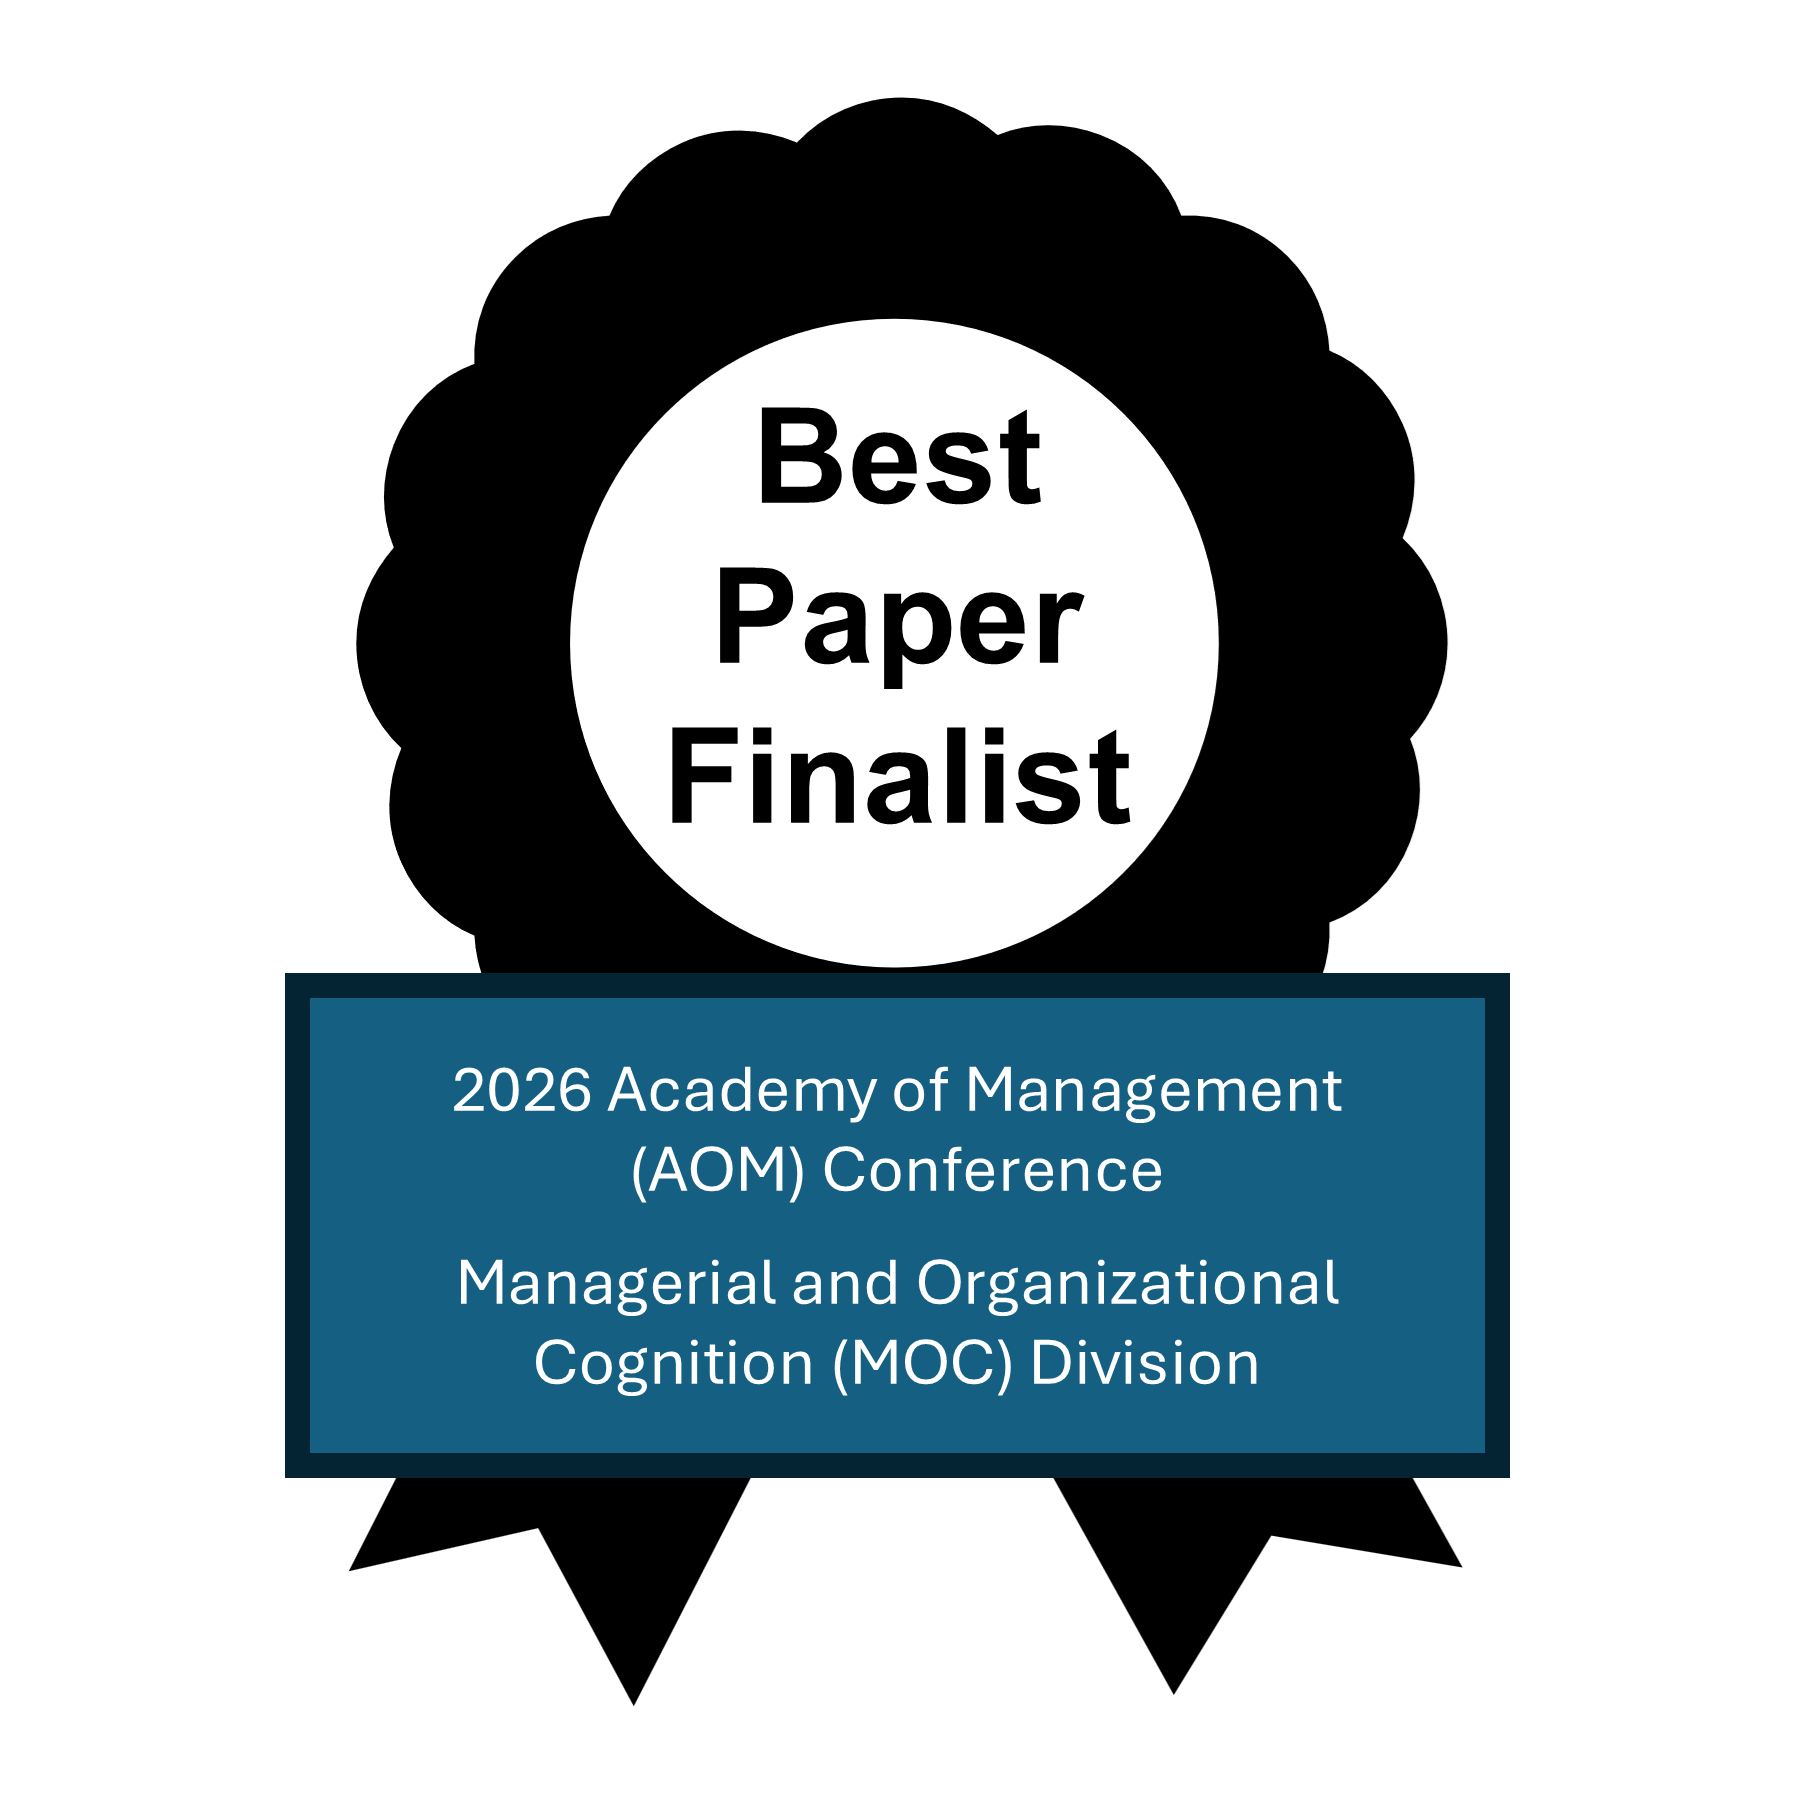
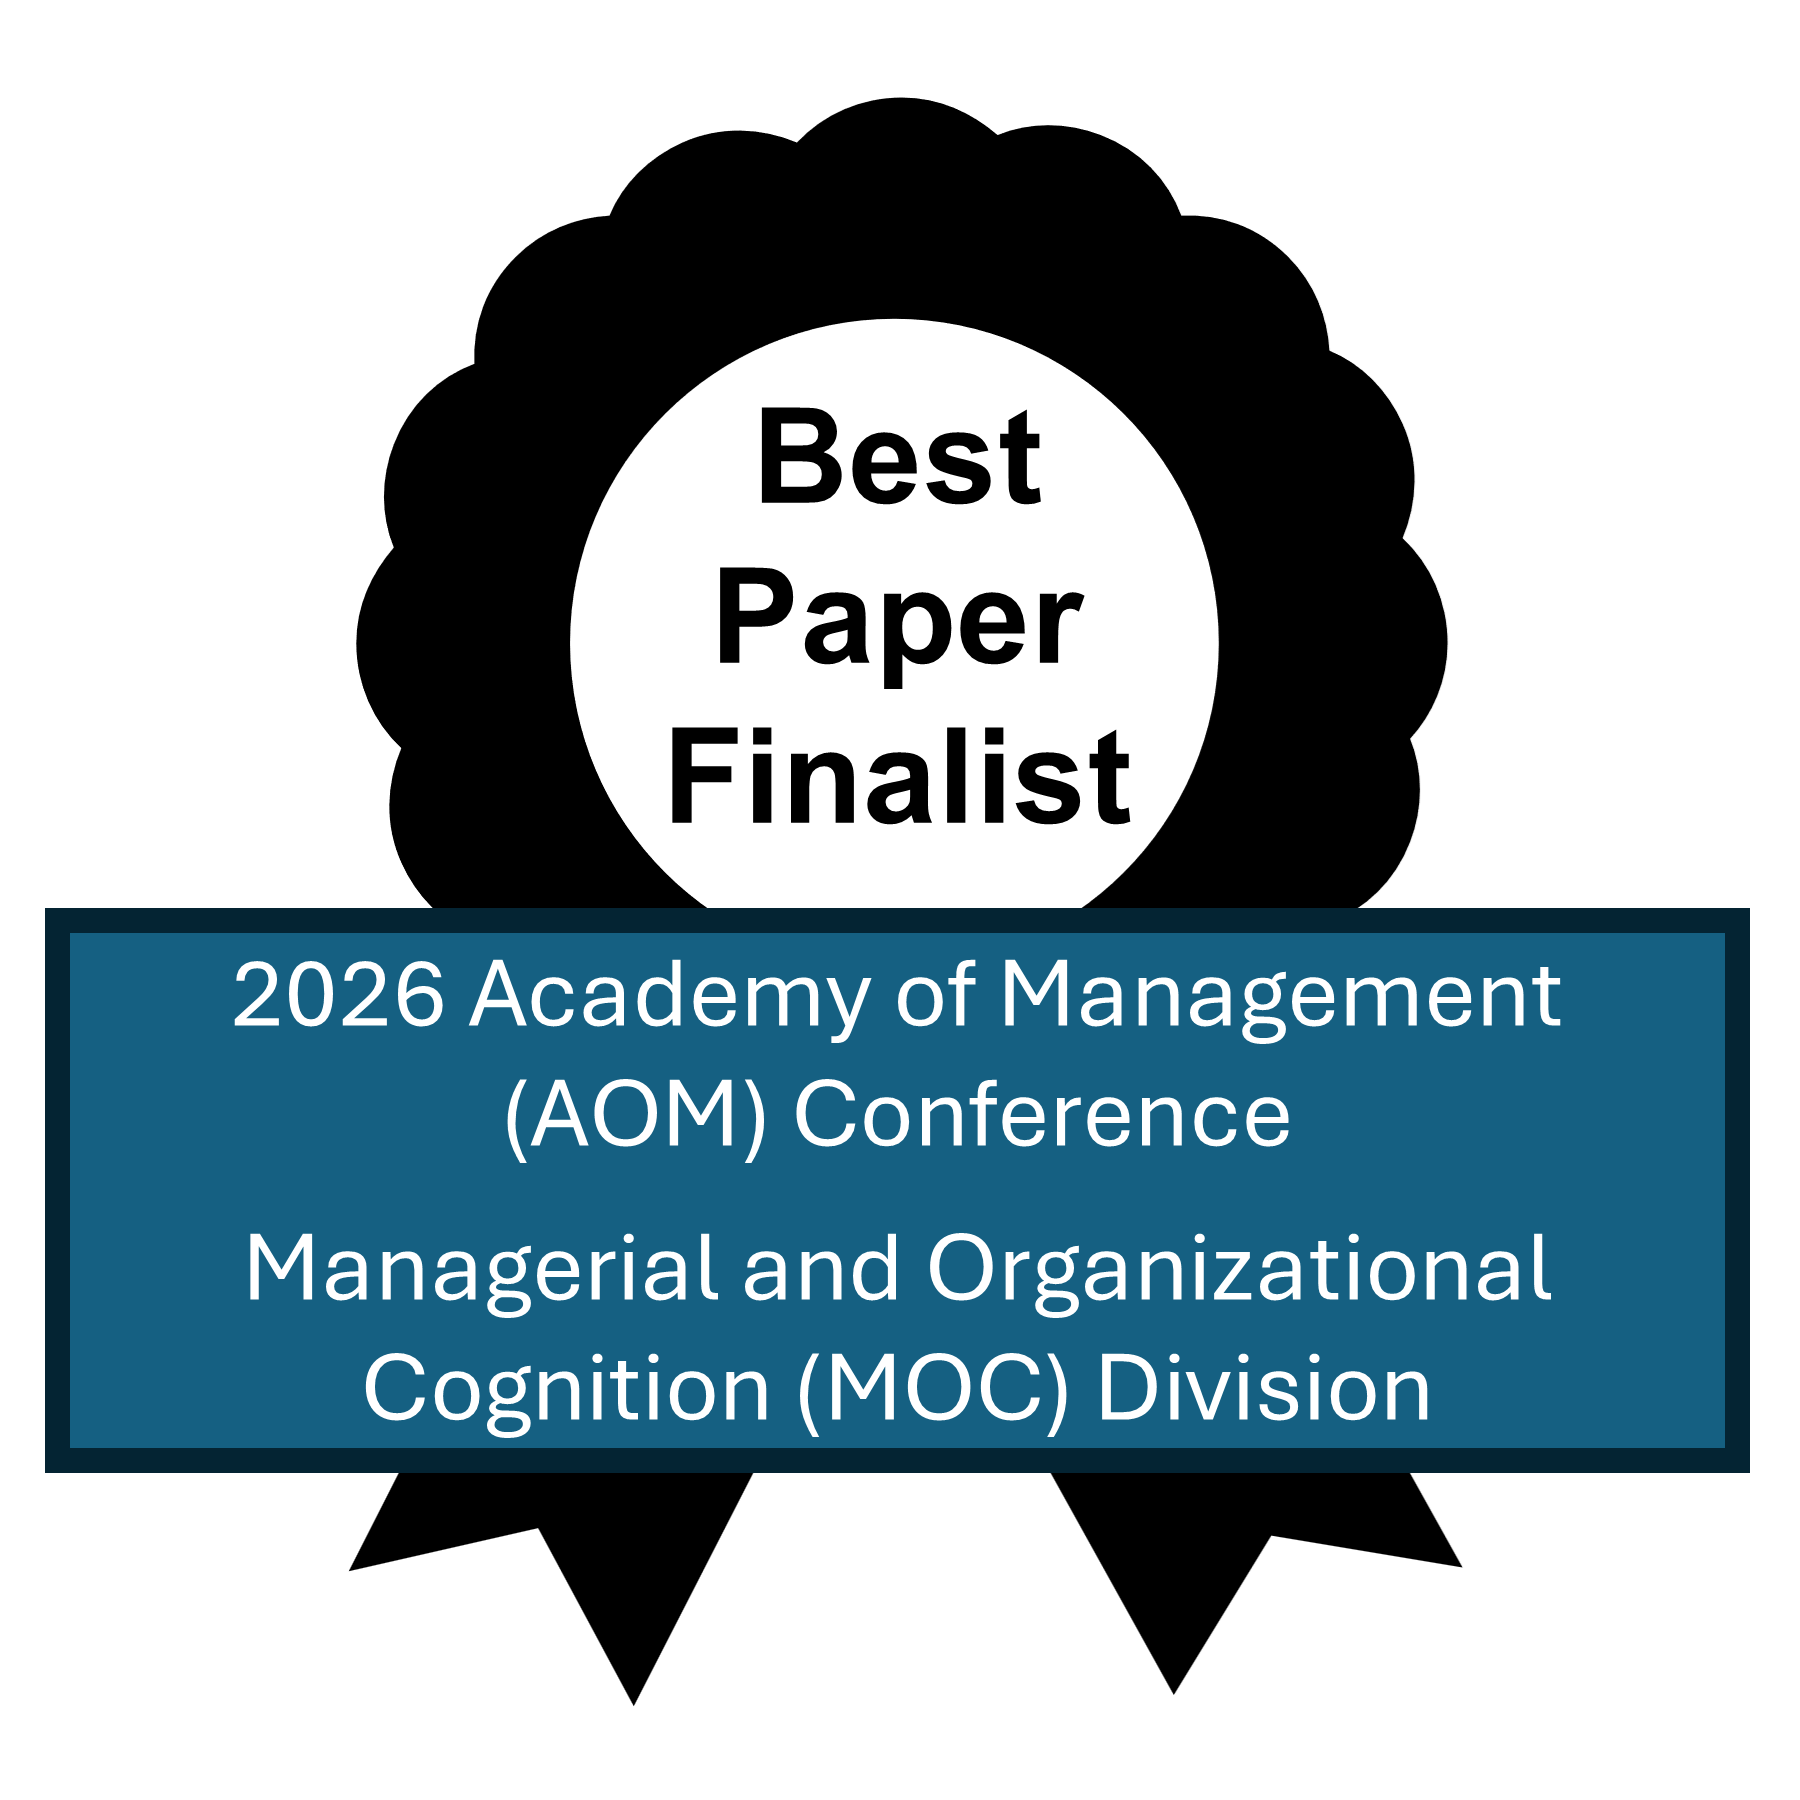
cont'd

Changed region(s): [[0.0, 0.4978, 0.9956, 0.84]]

diff --git a/_pages/conferences.md b/_pages/conferences.md
@@ -71,7 +71,7 @@ author_profile: true
 <div class="apa">
 
 <p>
-17. <b>Rebholz, T. R.</b>, Uphoff, M., Bernges, C. H. R., & Scholten, F. (2026, August). <i>Strategic algorithmic advice taking</i> [Talk]. 86th Annual Meeting of the Academy of Management (AOM). Philadelphia, PA, USA.
+17. <b>Rebholz, T. R.</b>, Uphoff, M., Bernges, C. H. R., & Scholten, F. (2026, August). <i>Strategic algorithmic advice taking</i> [Talk]. 86th Annual Meeting of the Academy of Management (AOM). Philadelphia, PA, USA.<br>
 <img src="/images/awards-best_paper-finalist-AOM2026-MOC.png" width="150px" height="150px" alt="Best MOC Paper (AOM 2026)"> &emsp; 
 </p>
 